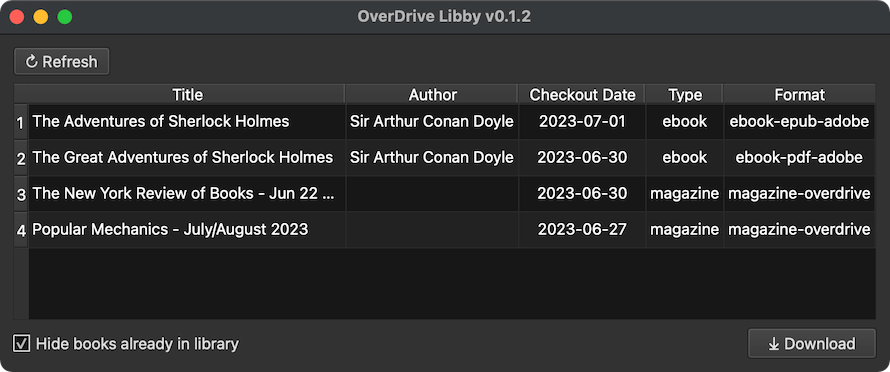
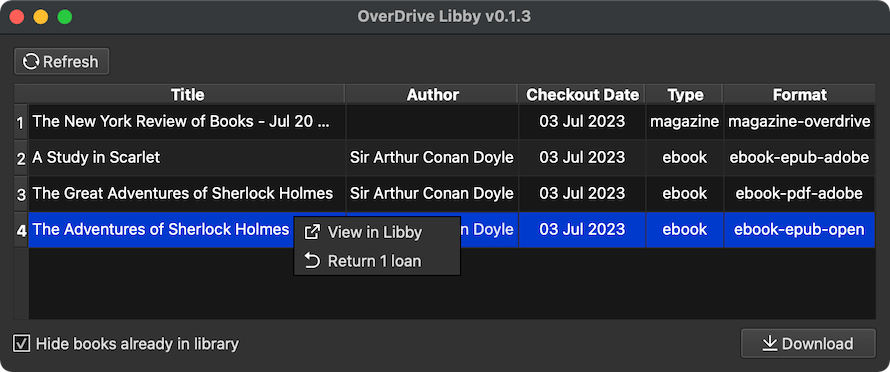
Update change log and screenshots

diff --git a/CHANGELOG.md b/CHANGELOG.md
@@ -1,6 +1,6 @@
 # Changelog
 
-Unreleased
+Version 0.1.3 - 2023-07-03
 - New: View loans in Libby (from context/right-click menu)
 - New: Return loans (from context/right-click menu)
 - New: Auto tag downloaded books
